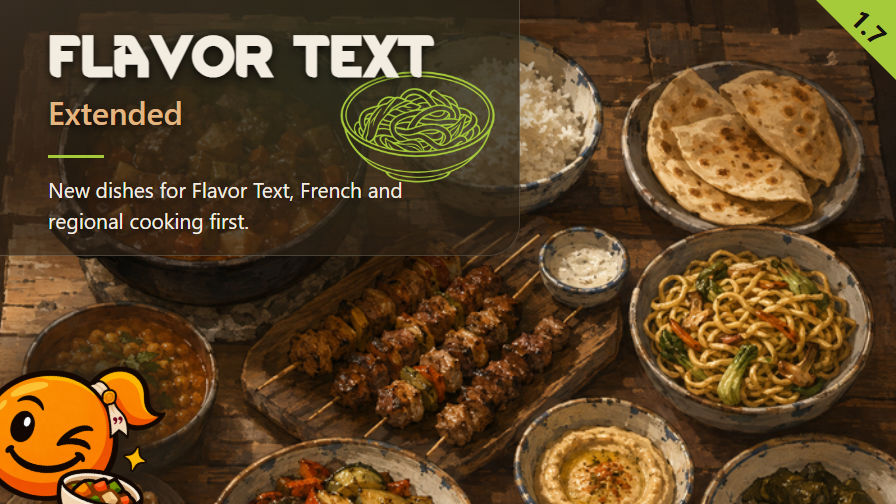
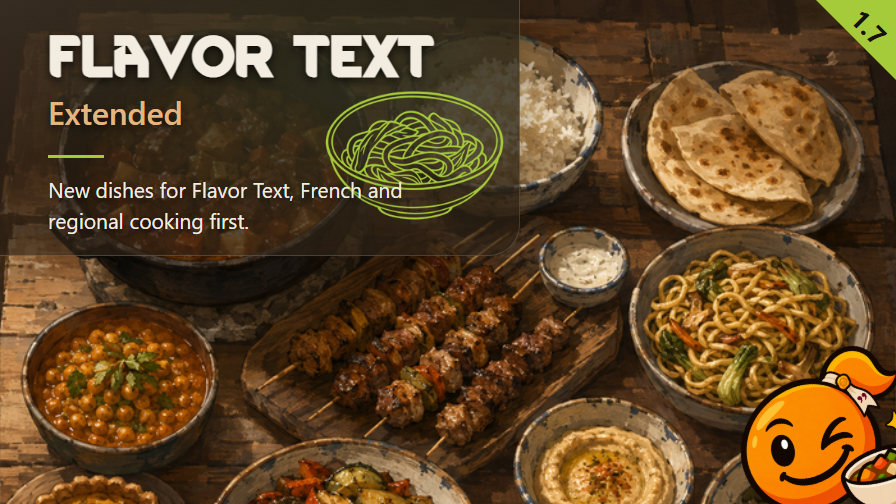
Preview: render with the new grouped config (badge bottom-right), social_preview_sha256 and protocols_read_sha updated

Changed region(s): [[0.0, 0.5952, 0.2188, 1.0], [0.3438, 0.119, 0.5625, 0.4464], [0.8125, 0.6845, 1.0, 1.0]]

diff --git a/STATUS.md b/STATUS.md
@@ -15,7 +15,7 @@ dependencies: verified
 automated_tests: passed
 xml_tests: passed
 echo_review_sha: 8c4558bbc82b653aa65a33422b6e8b32e040483a
-social_preview_sha256: 29c070a2f637b31ab3c84e0f7e4709d07dcc116c6075df95a94e4236136aecc2
+social_preview_sha256: 67310d182212d48d48eb8d7545917797c693507d18479f524fc688fdbe84f8bc
 licence:      original
 licence_at:   LICENSE and Mod/LICENSE (MIT); ATTRIBUTION.md
 upstream_mod_remotes:
@@ -37,7 +37,7 @@ remaining:
   - "limits, not blockers: each Pickle pass passed once per tree (1.2.2 for 1.6, 94d1b99 for 1.7); no cook walks to a stove (no tick passes in 03-cooking); Chinese Traditional Cultural Things Expanded declares no 1.6 and is not certified; no shallot provider is certified."
   - "note: the run scripts look for <rimworld>/<Mod>/. A junction <rimworld>/FlavorTextExtended, made 2026-09-21 and ignored by the root .gitignore, bridges it. Never delete it recursively."
   - "note: desktop.ini and *.ico are local only and gitignored since 2026-10-02 (the two Art .ico files left git, files kept on disk); Mod/desktop.ini must never be committed."
-protocols_read_sha: 440425ae0c9b0bdcfee16bfcb1b34fade15f0031
+protocols_read_sha: b48ecc4cf0af35ec316379c537490a7c025a8c06
 ---
 
 # Flavor Text Extended - status
